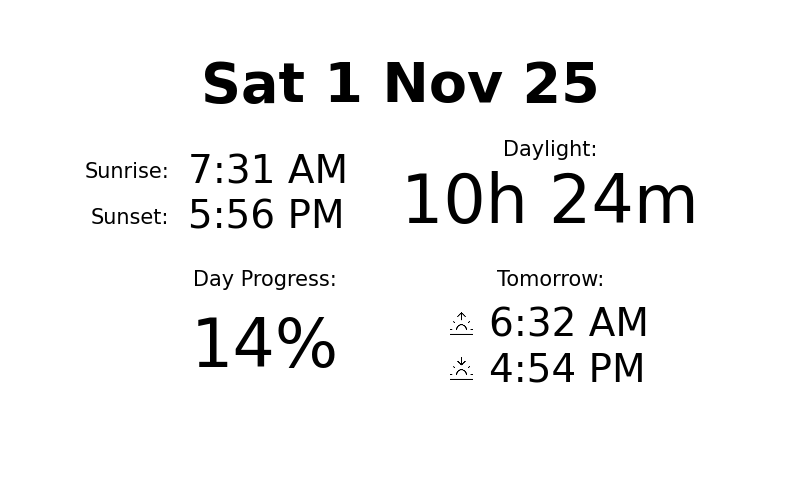
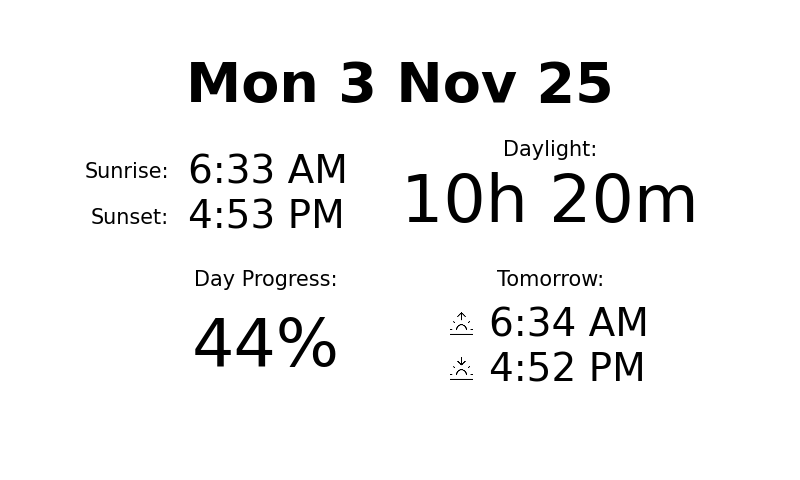
Updates to Figures

diff --git a/daylength.py b/daylength.py
@@ -25,10 +25,11 @@ def daylength(latitude,longitude,elevation,timezone_str,city_name):
     now = datetime.now(timezone)
     
     df = pd.DataFrame()
-    df['Date'] = pd.date_range(start = now - relativedelta(months=6),
+    df['Date'] = pd.date_range(start = now - relativedelta(months=6,),
                                end =  now + relativedelta(months=6),
                   freq = 'D')
-    df['Today'] = np.where(df.Date == now,True,False)
+    
+    df['Today'] = np.where(df['Date'].dt.strftime('%Y-%m-%d')==now.strftime('%Y-%m-%d'),True,False)
     
     
     df['Daylength'] = pd.Series()
@@ -50,8 +51,7 @@ def daylength(latitude,longitude,elevation,timezone_str,city_name):
                df[df.Today==True]['Daylength'],
                color = 'black',
                s = 125,
-               zorder=5,
-               label='Today')
+               zorder=9)
     
     # 4. Format the X-axis (Date)
     ax.xaxis.set_major_locator(mdates.MonthLocator())

diff --git a/TRMNL_Sunrise.py b/TRMNL_Sunrise.py
@@ -44,10 +44,20 @@ def create_date_figure():
     minutes = (daylight_duration.seconds % 3600) // 60
     daylight = f"{hours}h {minutes}m"
     
-    
     # Day Progress
-    day_progress = f"{(now - s['sunrise']).total_seconds()/(daylight_duration.total_seconds()):.0%}"
+    def get_day_progress():
+        now_seconds = (now - s['sunrise']).total_seconds()
+        daylight = daylight_duration.total_seconds()
+        progress = now_seconds/daylight
+        
+        if progress >=1:
+            return '100%'
+        else:
+            return f'{progress:.0%}'
     
+    day_progress = get_day_progress()
+    
+
     # Tomorrow Sunrise/Sunset
     tomorrow = now + timedelta(days=1)
     tomorrow = s = sun(city.observer, date=tomorrow, tzinfo=city.timezone)
